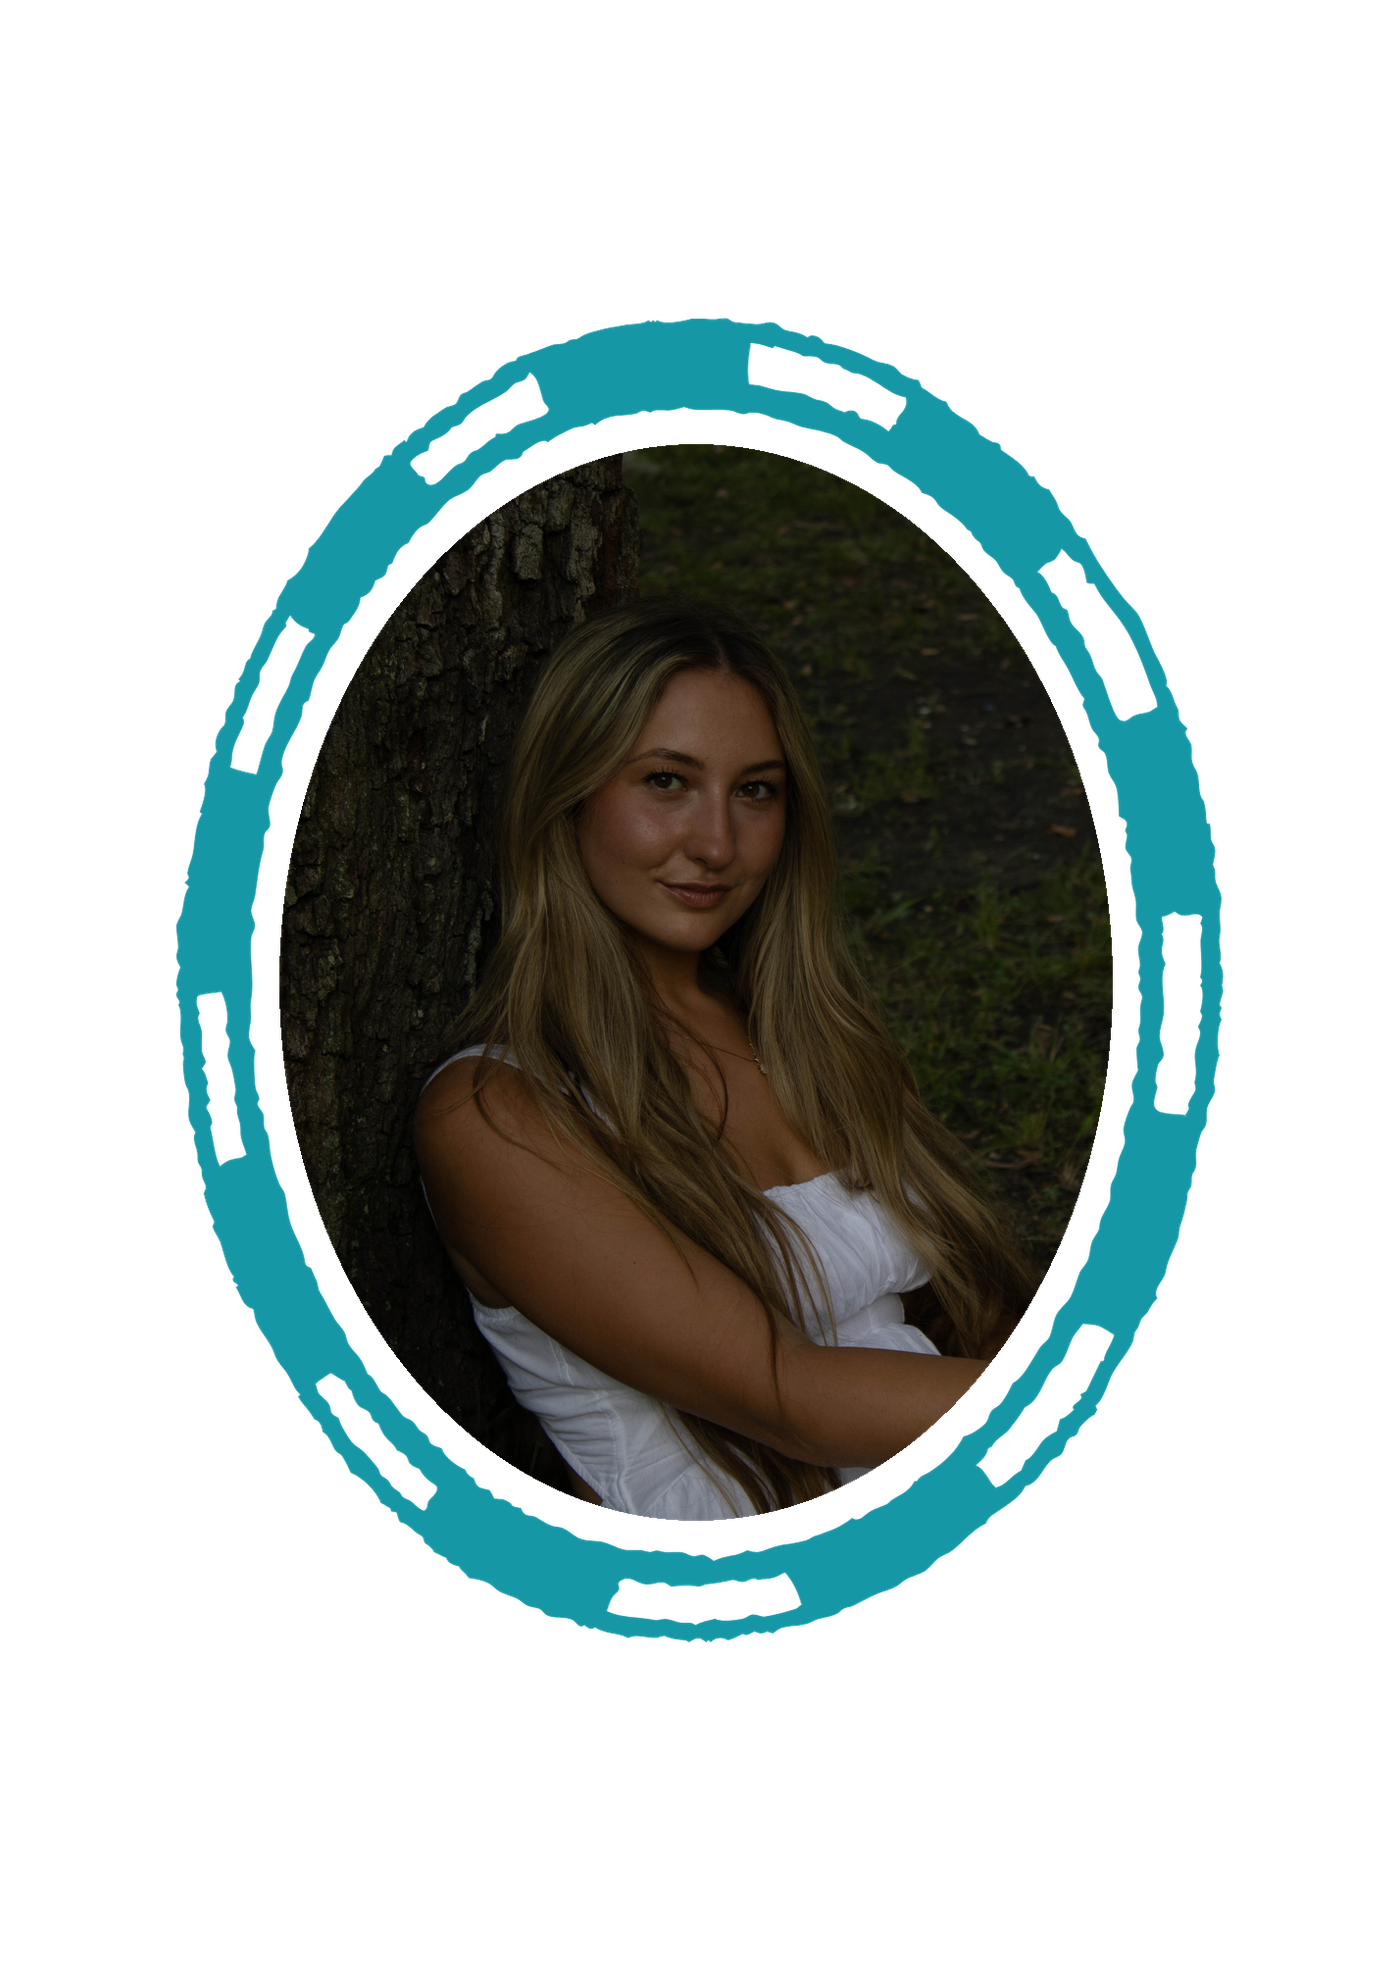
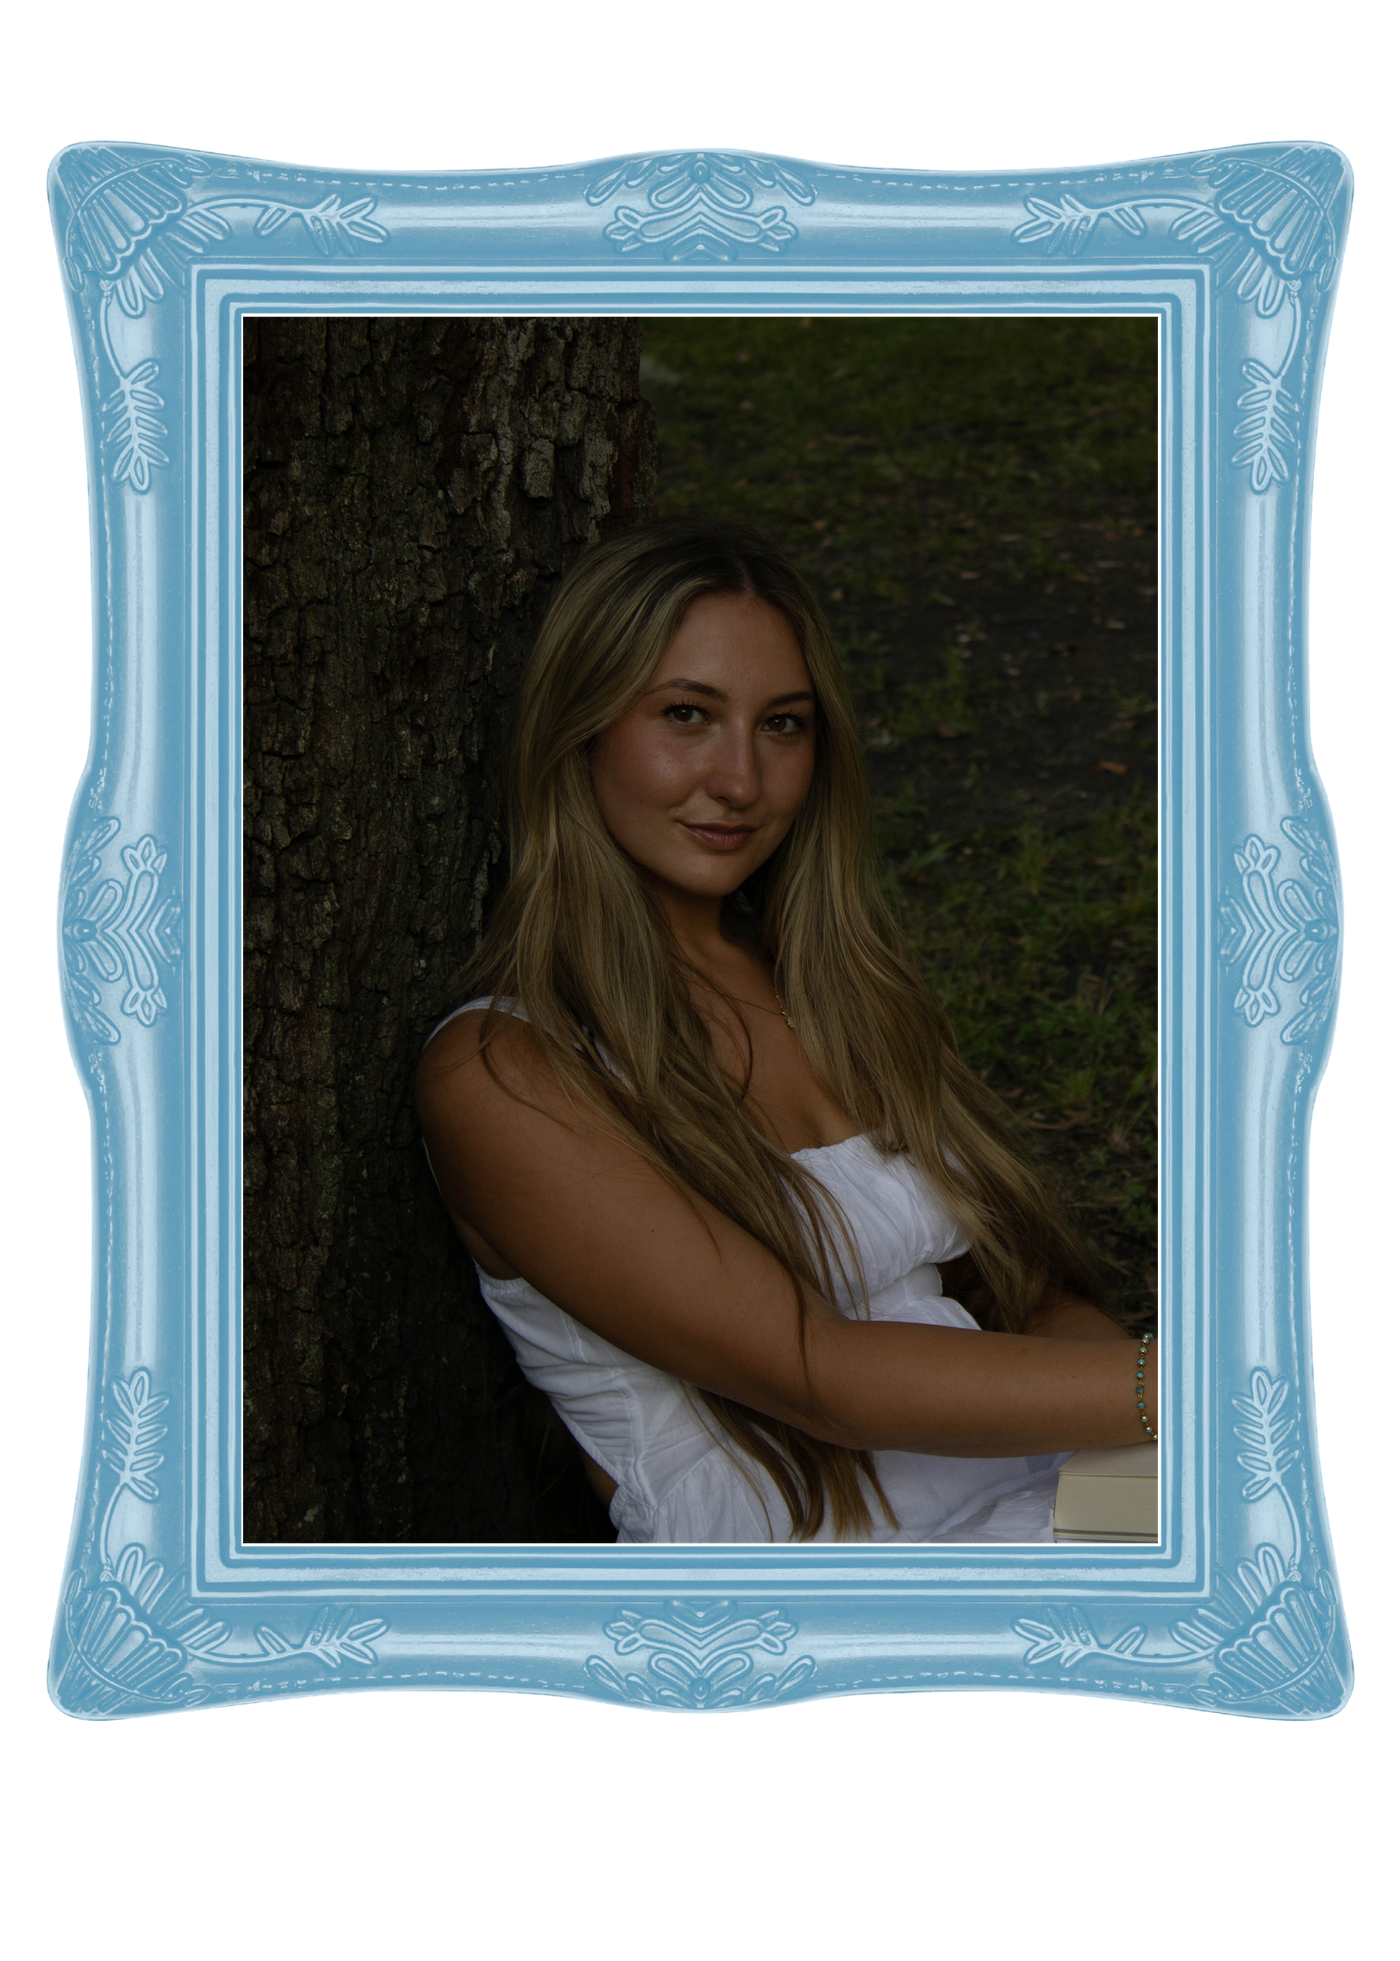
fixed a bug

diff --git a/index.html b/index.html
@@ -177,11 +177,20 @@
        elliptical mask, the rest are plain rectangular pastes), scattered
        around the centered logo at crooked angles, scrapbook-style.
        ============================================ */
+    /* Fixed px sizes + percentage positions only avoid overlap at ONE specific container width.
+       Instead, the whole composition scales fluidly: aspect-ratio keeps the stage's height
+       locked to the same 2000:1600 ratio it was verified non-overlapping at (so percentage
+       positions stay geometrically identical at any width), and the logo/photo sizes scale
+       with viewport width (clamped to their original 560px at the 2000px design width) so
+       nothing grows large enough, relative to the shrinking stage, to collide. This replaces
+       the old fixed-px + breakpoint approach, which actually overlapped on most real desktop
+       widths (anything narrower than ~1700px), not just mobile. */
     .cp-logo-photos-row {
       position: relative;
+      width: 100%;
       max-width: 2000px;
       margin: 0 auto;
-      min-height: 1600px;
+      aspect-ratio: 2000 / 1600;
       padding: 2rem 1.5rem 1.5rem;
     }
     .cp-logo-photos-row .cp-logo-img {
@@ -189,13 +198,13 @@
       top: 34%;
       left: 50%;
       transform: translate(-50%, -50%);
-      height: 560px;
+      height: min(560px, 28vw);
       width: auto;
       z-index: 2;
     }
     .cp-framed-photo {
       position: absolute;
-      height: 560px;
+      height: min(560px, 28vw);
       width: auto;
       z-index: 1;
       filter: drop-shadow(0 10px 18px rgba(0,0,0,0.18));
@@ -204,23 +213,6 @@
     .cp-framed-photo-4 { top: 2%; left: 2%; transform: rotate(-9deg); }                          /* upper left */
     .cp-framed-photo-2 { top: 62%; left: 8%; transform: translateY(-50%) rotate(-7deg); }        /* left */
     .cp-framed-photo-5 { top: 62%; right: 8%; transform: translateY(-50%) rotate(8deg); }        /* right */
-    @media (max-width: 1100px) {
-      .cp-logo-photos-row { min-height: 1080px; }
-      .cp-logo-photos-row .cp-logo-img { height: 420px; }
-      .cp-framed-photo { height: 380px; }
-    }
-    @media (max-width: 700px) {
-      .cp-logo-photos-row { min-height: 760px; }
-      .cp-logo-photos-row .cp-logo-img { height: 320px; }
-      .cp-framed-photo { height: 260px; }
-    }
-    @media (max-width: 576px) {
-      .cp-logo-photos-row { min-height: 460px; padding: 1.5rem 1rem 1rem; }
-      .cp-logo-photos-row .cp-logo-img { height: 230px; }
-      .cp-framed-photo { height: 160px; }
-      .cp-framed-photo-1 { top: 0; right: 2%; }
-      .cp-framed-photo-4 { top: 0; left: 2%; }
-    }
 
     /* ============================================
        HERO CAROUSEL (contained box, not full-bleed)
@@ -635,7 +627,6 @@
       .cp-nav-decor { display: none; } /* hide the seashell so it doesn't collide with the hamburger button in the same corner */
       .cp-nav-logo { height: 45px; }
 
-      .cp-logo-block img { height: 400px; }
       .cp-hero-box-wrap { padding: 0 1.5rem 4rem; }
       .cp-hero-box { height: 420px; }
 
@@ -660,7 +651,6 @@
 
     @media (max-width: 576px) {
       .cp-nav-logo { height: 38px; }
-      .cp-logo-block img { height: 300px; }
       .cp-hero-box-wrap { padding: 0 1.25rem 3rem; }
       .cp-hero-box { height: 320px; }
       .cp-works-grid {
@@ -720,7 +710,7 @@
        ========================================== -->
   <div class="cp-logo-block cp-logo-photos-row">
     <img src="assets/family-framed.png" alt="Family portrait session" class="cp-framed-photo cp-framed-photo-1">
-    <img src="assets/family2-framed.png" alt="Family portrait session" class="cp-framed-photo cp-framed-photo-4">
+    <img src="assets/grad1-framed.png" alt="Graduation portrait session" class="cp-framed-photo cp-framed-photo-4">
     <a href="/" aria-label="Coral Olson Photography — Home">
       <img src="assets/Coral's Logo-Blue.png" alt="Coral Olson Photography" class="cp-logo-img">
     </a>

diff --git a/PricingGuide.html b/PricingGuide.html
@@ -236,6 +236,7 @@
       padding: 3rem 1.5rem;
       text-align: center;
       border-top: 4px solid #FFB3AE; /* coral divider line, matches the pricing cards/navbar dividers */
+      border-bottom: 4px solid #FFB3AE; /* coral divider line, closes off the section */
     }
     .pricing-addons h2 {
       font-family: 'Black Mango', cursive;
@@ -295,6 +296,7 @@
       background-color: #FFF4F1;
       padding: 4rem 2rem;
       text-align: center;
+      border-top: 4px solid #FFB3AE; /* coral divider line, matches the pricing cards/navbar dividers */
       /* Overrides css/styles.css's old .instagram-footer rules (position/height/overflow),
          which are leftovers from the original dark hover-reveal design and no longer apply here */
       position: static;

diff --git a/engagement.html b/engagement.html
@@ -170,6 +170,7 @@
       background-color: #FFF4F1; /* cream, matches index.html/contact.html */
       padding: 4rem 2rem;
       text-align: center;
+      border-top: 4px solid #FFB3AE; /* coral divider line, matches the nav/panel dividers */
     }
     .instagram-footer a {
       display: inline-block;

diff --git a/family.html b/family.html
@@ -167,6 +167,7 @@
       background-color: #FFF4F1; /* cream, matches index.html/contact.html */
       padding: 4rem 2rem;
       text-align: center;
+      border-top: 4px solid #FFB3AE; /* coral divider line, matches the nav/panel dividers */
     }
     .instagram-footer a {
       display: inline-block;

diff --git a/portraits.html b/portraits.html
@@ -165,6 +165,7 @@
       background-color: #FFF4F1; /* cream, matches index.html/contact.html */
       padding: 4rem 2rem;
       text-align: center;
+      border-top: 4px solid #FFB3AE; /* coral divider line, matches the nav/panel dividers */
     }
     .instagram-footer a {
       display: inline-block;

diff --git a/contact.html b/contact.html
@@ -297,6 +297,7 @@
       background-color: #FFF4F1;
       padding: 4rem 2rem;
       text-align: center;
+      border-top: 4px solid #FFB3AE; /* coral divider line, matches the nav/panel dividers */
     }
     .instagram-footer a {
       display: inline-block;
